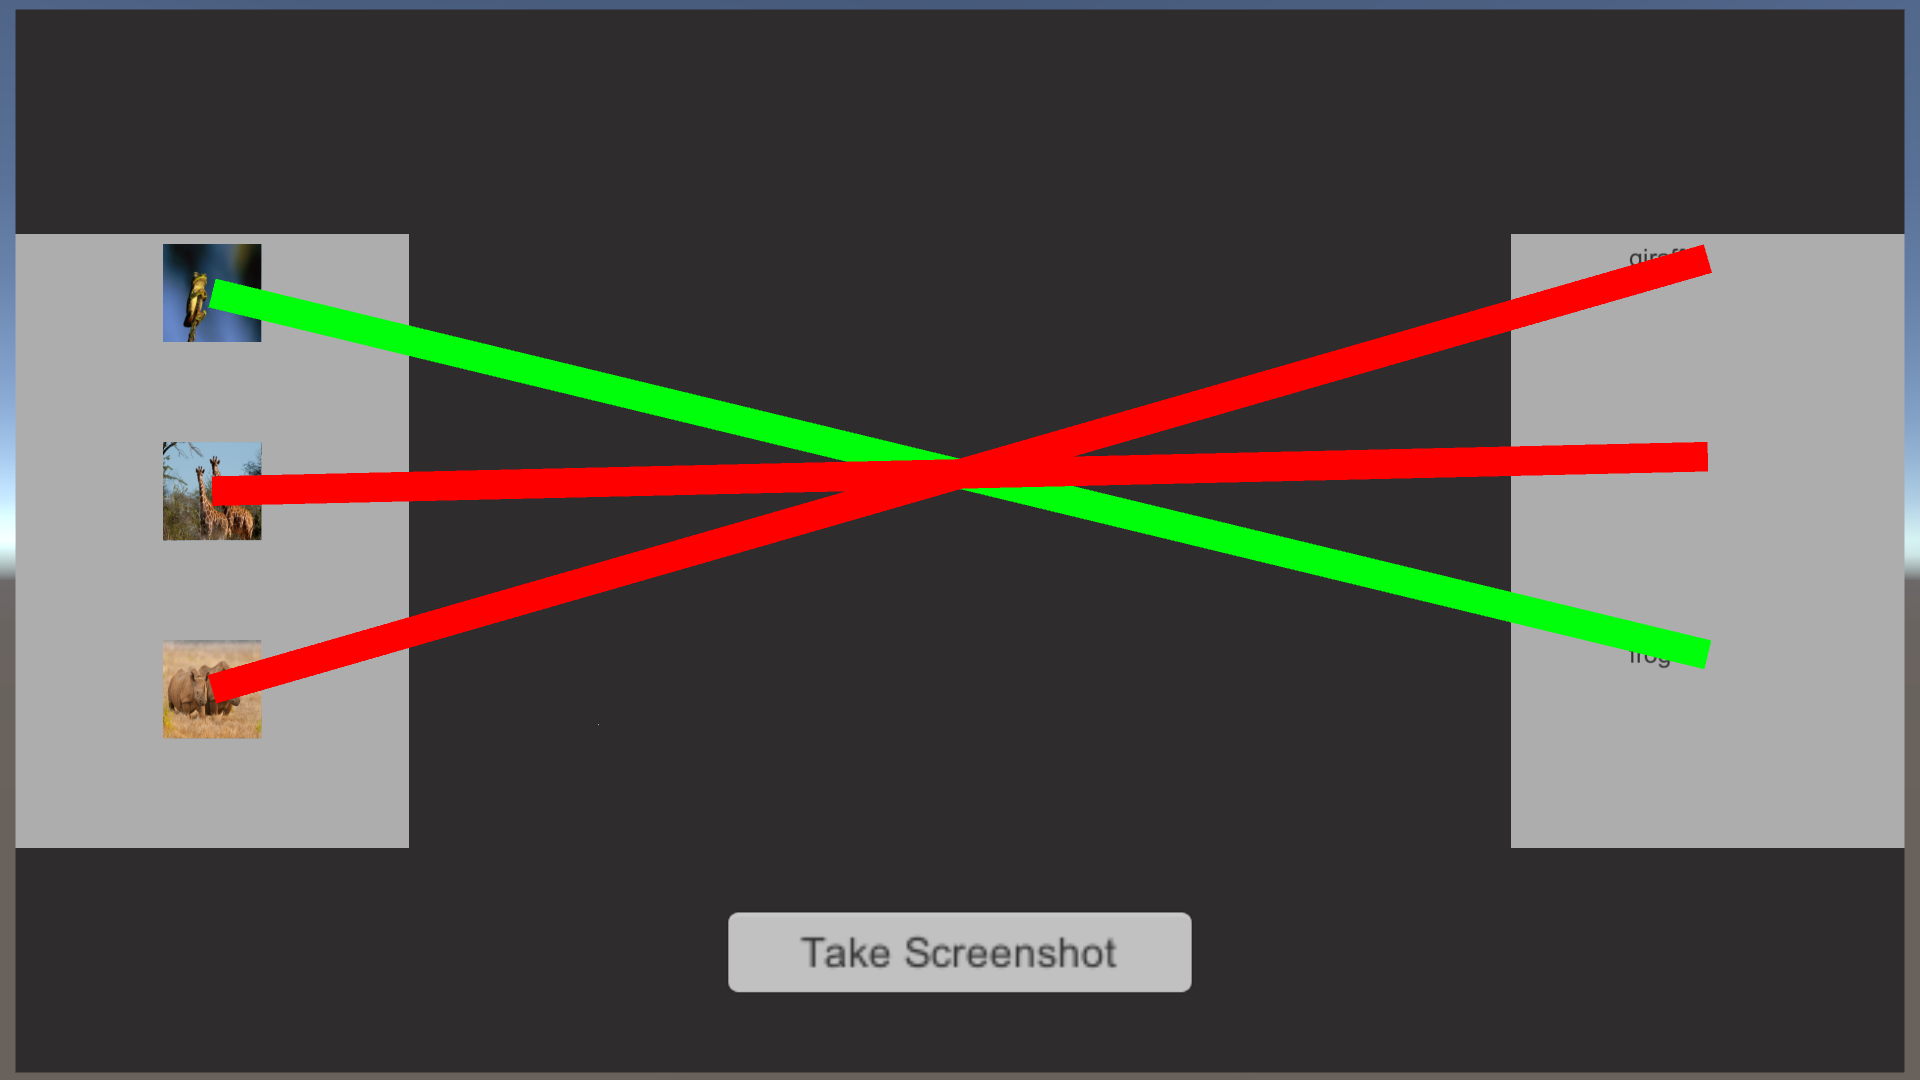
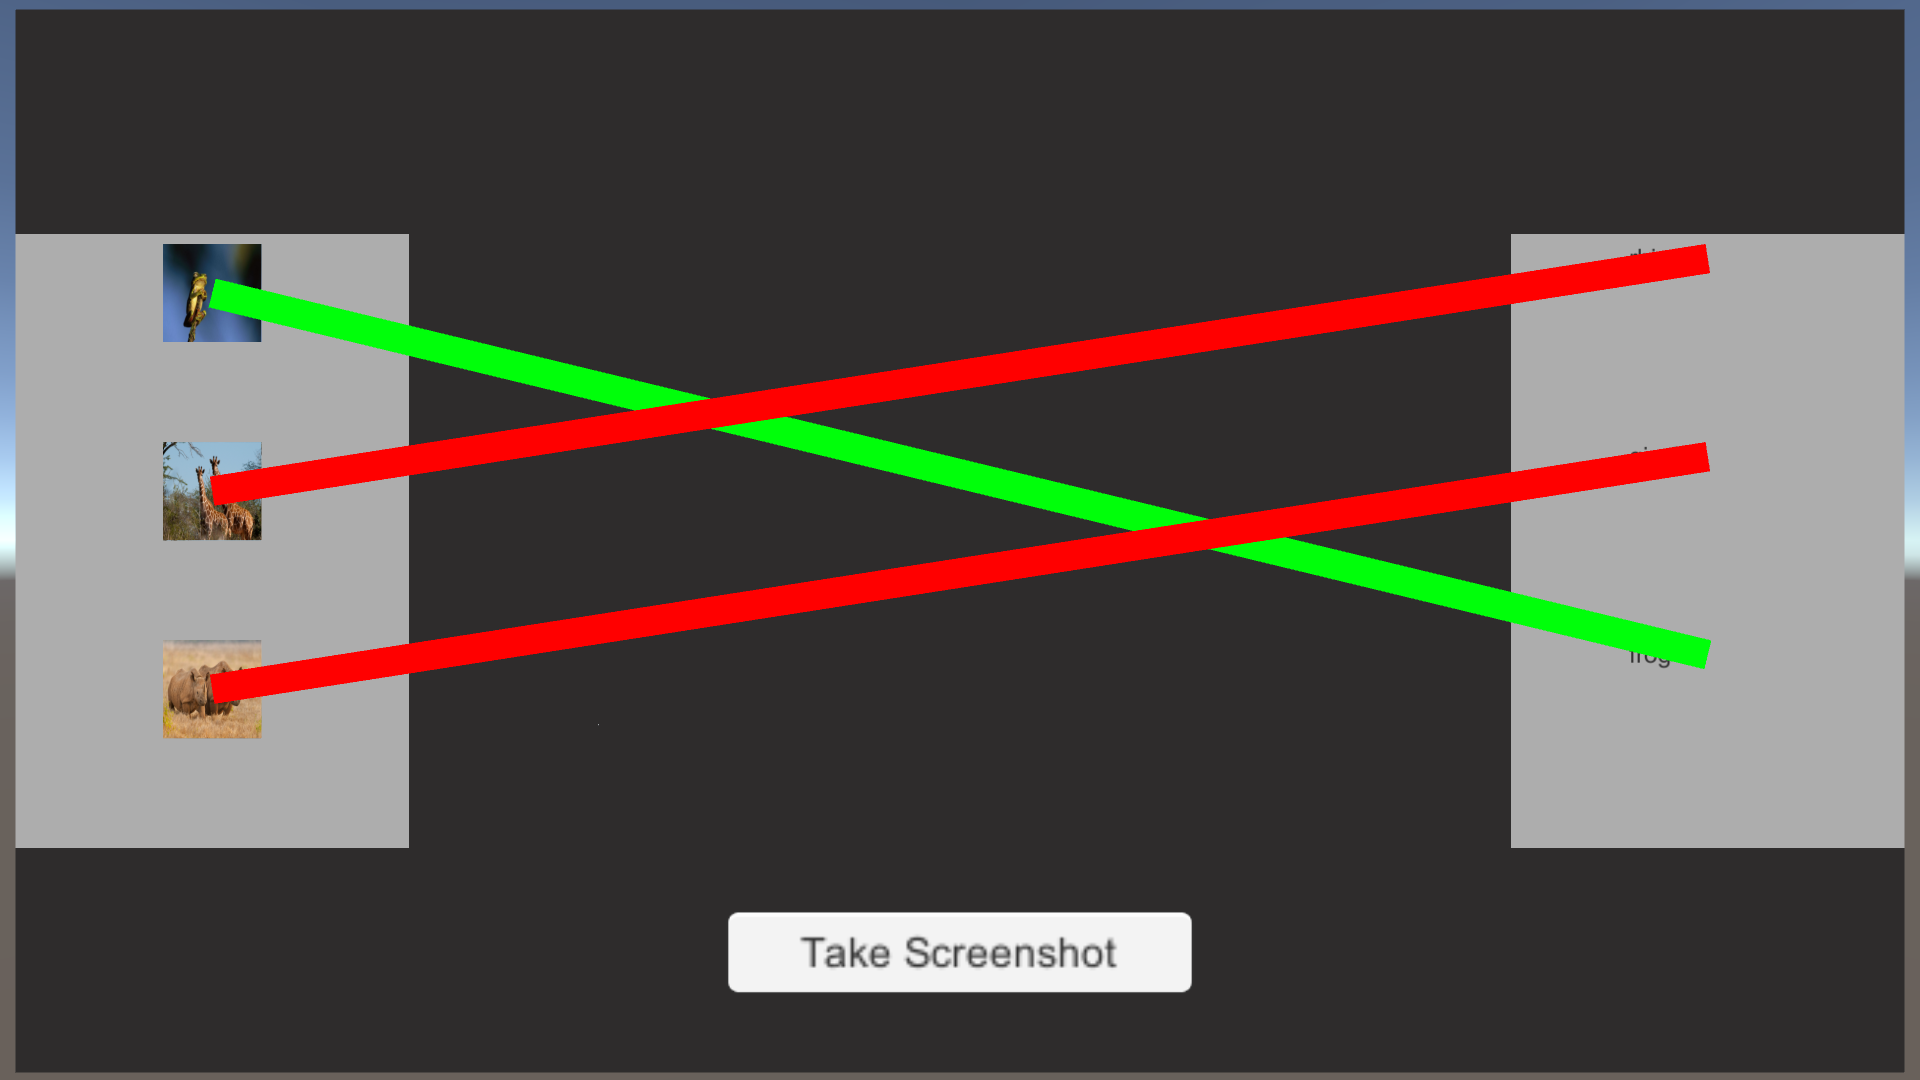
Bug Fix
Preventing Ui elements to be selected more than once

Changed region(s): [[0.125, 0.2139, 0.875, 0.6417], [0.375, 0.825, 0.625, 0.9167]]

diff --git a/Assets/Scripts/GameManager.cs b/Assets/Scripts/GameManager.cs
@@ -58,7 +58,7 @@ public class GameManager : MonoBehaviour
     /// <summary>
     /// the UI type of the last clicked element.
     /// </summary>
-    private UiType lastClickedElementType;
+    private AnimalUiElement lastClickedElement;
 
     /// <summary>
     /// The app UI
@@ -78,7 +78,7 @@ public class GameManager : MonoBehaviour
     /// <summary>
     /// this degelate gets invoked each time a UI element is clicked
     /// </summary>
-    public Action<string, Vector3, UiType> onUiElementClicked;
+    public Action<string, Vector3, AnimalUiElement> onUiElementClicked;
 
     /// <summary>
     /// turns true when the line is instantiated and false when the player decision is finalized
@@ -120,40 +120,48 @@ public class GameManager : MonoBehaviour
     /// <param name="key"> the name of the animal on the clicked UI element </param>
     /// <param name="poition"> the position of the clicked UI element </param>
     /// <param name="uiType"> the type of the clicked Ui element </param>
-    public void HandleLine(string key, Vector3 poition, UiType uiType)
+    public void HandleLine(string key, Vector3 poition, AnimalUiElement animalUiElement)
     {
-        if (!lineInstantiated)
+        if (!animalUiElement.taken)
         {
-            Debug.Log($"the user first clicked on {key}");
+            if (!lineInstantiated)
+            {
+                Debug.Log($"the user first clicked on {key}");
 
-            lastClickedElementType = uiType;
+                lastClickedElement = animalUiElement;
 
-            GameObject lineRenderer = Instantiate(linePrebab, gameUI.transform);
+                GameObject lineRenderer = Instantiate(linePrebab, gameUI.transform);
 
-            createdLine = lineRenderer.GetComponent<LineRenderer>();
+                createdLine = lineRenderer.GetComponent<LineRenderer>();
 
-            createdLine.SetPosition(0, new Vector3(poition.x, poition.y, -20));
+                createdLine.SetPosition(0, new Vector3(poition.x, poition.y, -20));
 
-            currentPlayerDecision = new PlayerDecision(createdLine, correctColor, incorrectColor);
+                currentPlayerDecision = new PlayerDecision(createdLine, correctColor, incorrectColor);
 
-            currentPlayerDecision.firstKey = key;
+                currentPlayerDecision.firstKey = key;
 
-            lineInstantiated = true;
+                lineInstantiated = true;
+            }
+            else if (lineInstantiated && lastClickedElement.uiType != animalUiElement.uiType)
+            {
+                Debug.Log($"the user last clicked on {key}");
+
+                createdLine.SetPosition(1, new Vector3(poition.x, poition.y, -20));
+
+                currentPlayerDecision.secondKey = key;
+
+                currentPlayerDecision.EvaluateDecision();
+
+                playerDecisions.Add(currentPlayerDecision);
+
+                lineInstantiated = false;
+            }
+
+            animalUiElement.taken = true;
         }
-        else if (lineInstantiated && lastClickedElementType != uiType)
-        {
-            Debug.Log($"the user last clicked on {key}");
 
-            createdLine.SetPosition(1, new Vector3(poition.x, poition.y, -20));
 
-            currentPlayerDecision.secondKey = key;
 
-            currentPlayerDecision.EvaluateDecision();
-
-            playerDecisions.Add(currentPlayerDecision);
-
-            lineInstantiated = false;
-        }
     }
 
     /// <summary>

diff --git a/Assets/Scripts/Animal/AnimalUiElement.cs b/Assets/Scripts/Animal/AnimalUiElement.cs
@@ -18,12 +18,17 @@ public class AnimalUiElement : MonoBehaviour
     public UiType uiType;
 
     /// <summary>
+    /// this turns true if the UI element is already selected
+    /// </summary>
+    public bool taken = false;
+
+    /// <summary>
     /// Using an Event trigger, when the user clicks the UI element it invokes the onUiElementClicked delegate
-    /// passing the name, the position and the type of the UI element
+    /// passing the name, the position and the AnimalUI object
     /// </summary>
     public void UserClick()
     {
-        GameManager.Instance.onUiElementClicked?.Invoke(key, transform.position, uiType);
+        GameManager.Instance.onUiElementClicked?.Invoke(key, transform.position, this);
     }
 }
 
